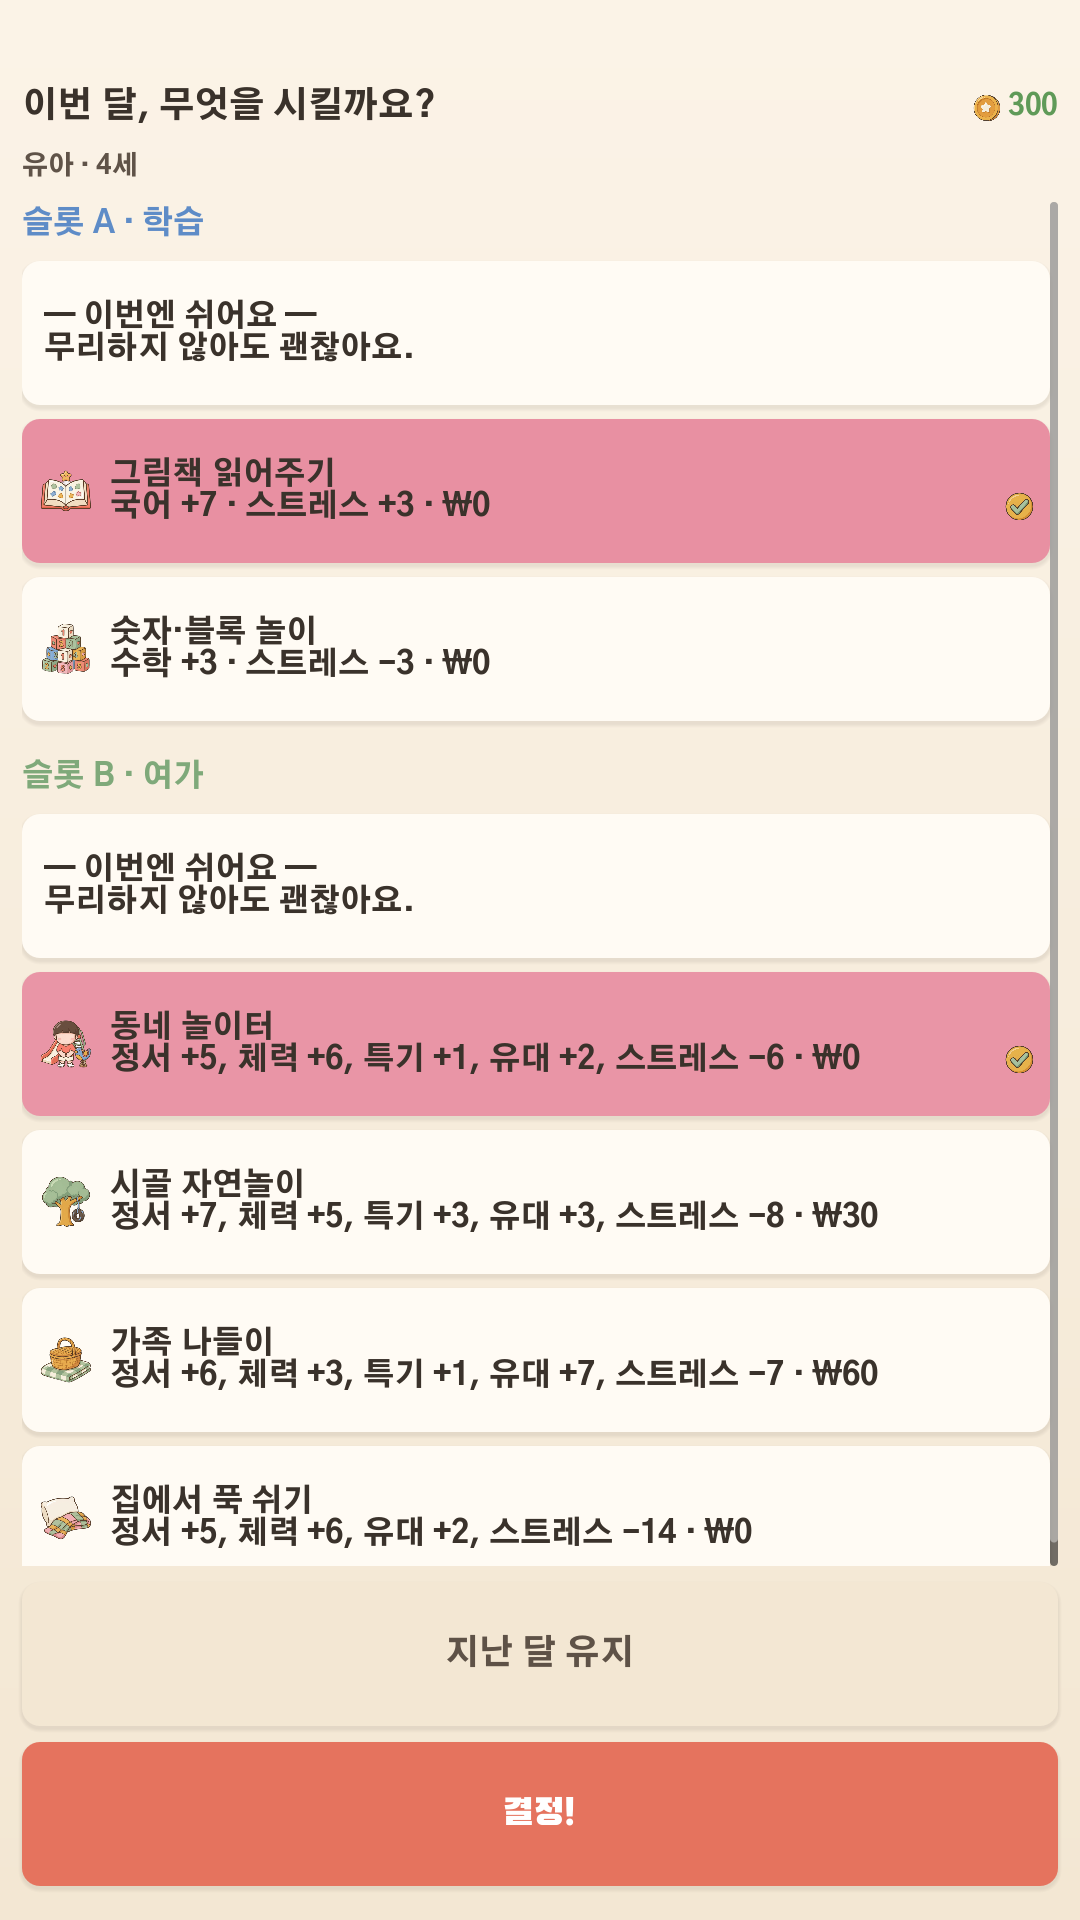
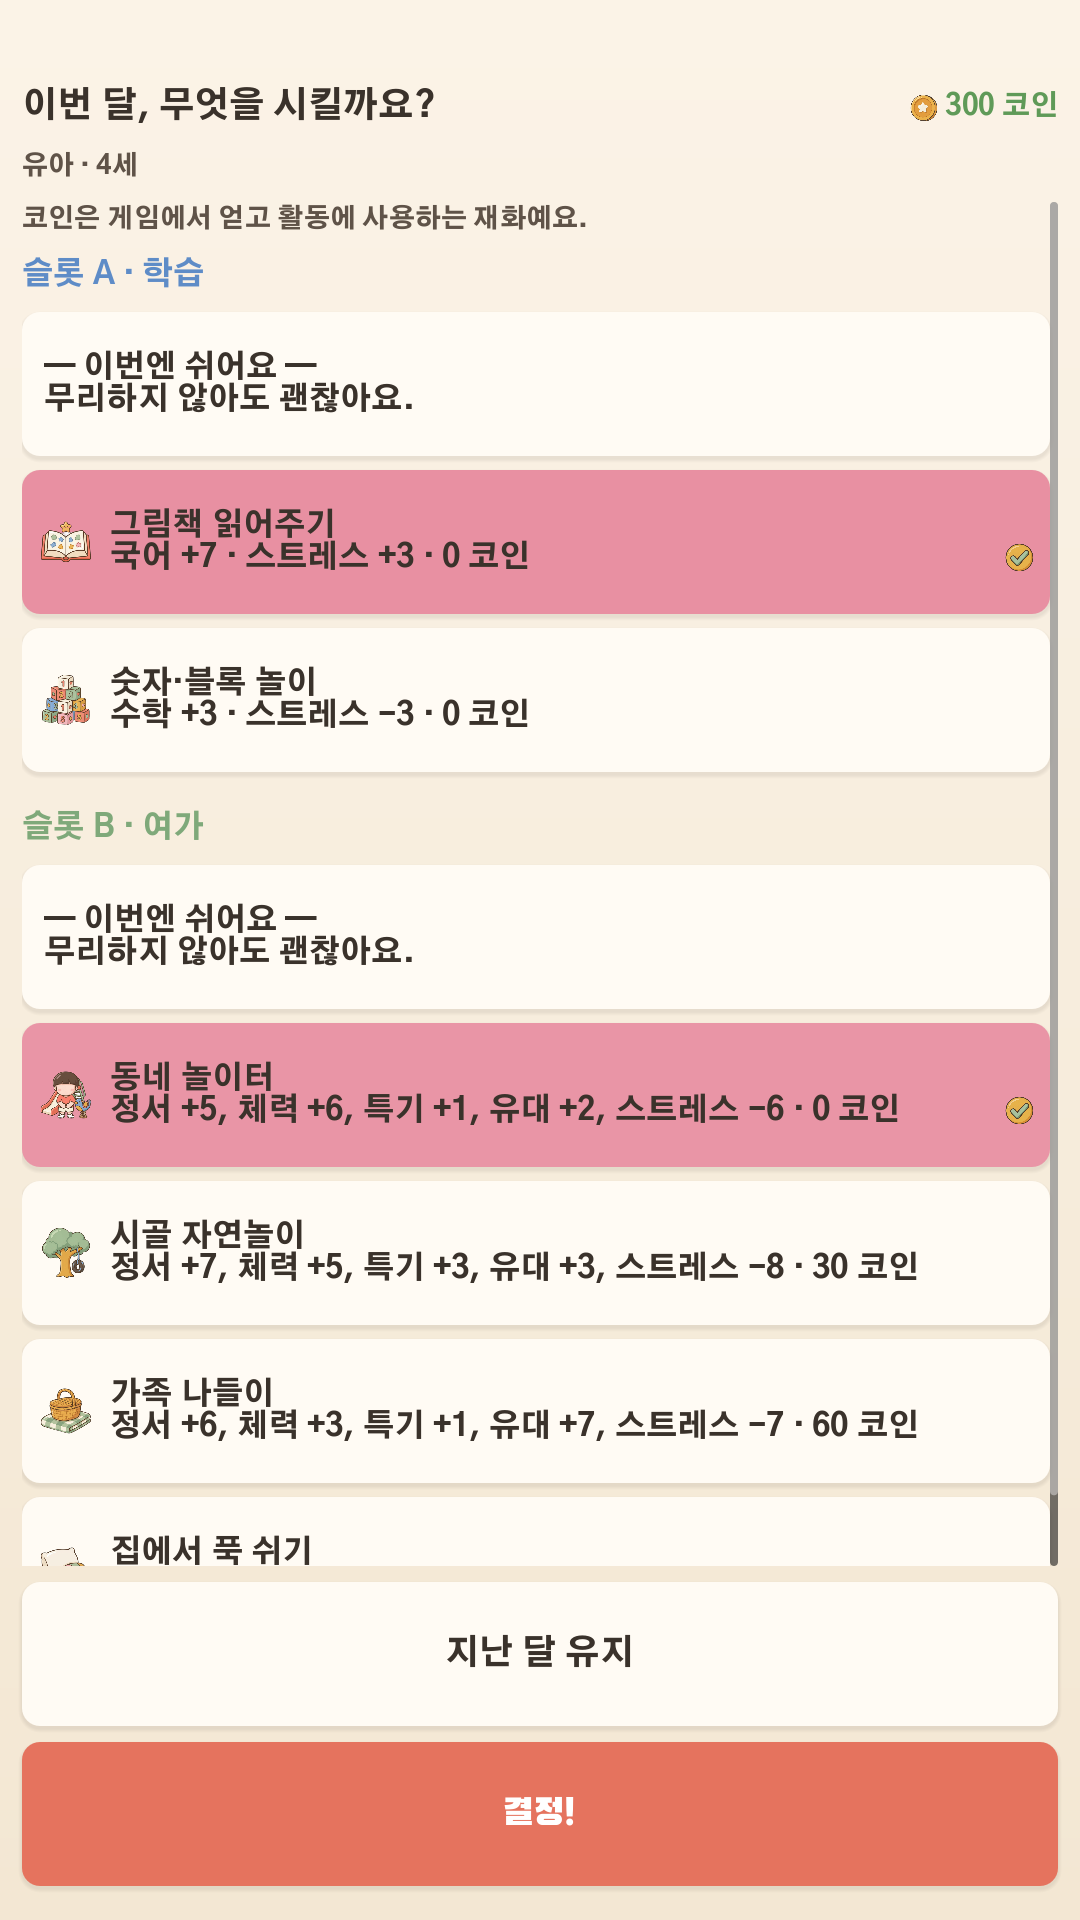
게임 재화 표시를 코인으로 통일 (#70)
* 코인 표기 통일과 Google Play 1.0.1 승인 범위 기록

* 게임 재화 표시를 코인으로 통일하고 첫 달 안내 추가

* 렌더링 검수 캡처의 프레임 대기 중단 방지

* E2E 탭 전에 포인터 위치를 화면 좌표로 갱신

Changed region(s): [[0.0, 0.0938, 0.9778, 0.9062], [0.825, 0.0312, 0.9778, 0.0625]]

diff --git a/docs/design/2026-10-24-coin-labels/design.md b/docs/design/2026-10-24-coin-labels/design.md
@@ -1,0 +1,33 @@
+# 코인 표기 통일과 Google Play 1.0.1 업데이트
+
+2026-10-24 사용자 요청에 포함된 계획을 실행한다. 기준은 `v1.0.0`이며 제품명, 재화 수치와 계산, 젬, 저장 키, 공개 API와 데이터 형식은 유지한다.
+
+| 화면 | 변경 후 표시 |
+|---|---|
+| 홈과 활동 잔액 | 동전 아이콘과 `250 코인` |
+| 활동 비용 | `30 코인` |
+| 활동 수입 | `코인 +50` |
+| 정산 | `코인` |
+| 잔액 부족 | `코인이 부족해요 — 활동 조합을 줄여 주세요` |
+
+각 회차 `turn_index == 0`인 활동 화면에 “코인은 게임에서 얻고 활동에 사용하는 재화예요.”를 표시한다. 별도 저장 항목이나 팝업은 만들지 않는다. 기존 숫자 애니메이션의 `fmt` 인자로 단위를 유지한다. 기존 화면과 아트 방향을 재사용하는 문구 수정이며 새 화면이나 UI 개편은 아니다.
+
+홈에서 활동을 열고, 활동을 선택하고, 정산을 확인한 뒤 홈으로 돌아오는 흐름은 유지한다. 화면 계층만 수정하며 엔진 독립 도메인과 어댑터는 바꾸지 않는다. 기존 예산 제한과 오류 처리도 유지한다. 설계 문서의 표시 기준과 Play 홈, 활동 스크린샷을 실제 렌더로 갱신한다.
+
+## 인수조건과 검수
+
+- AC-1: 사용자에게 보이는 원화 기호와 재화 이름 재력이 남지 않으며 비용, 수입, 정산, 잔액과 부족 안내가 위 표와 일치한다.
+- AC-2: 첫 달 안내가 각 회차 첫 달에만 나타나며 다음 달과 재실행에서도 기존 턴 정보와 일치한다.
+- AC-3: 잔액 0, 250, 9999999에서 기본 화면과 작은 화면, 큰 글자 설정을 검사한다. 잔액 애니메이션 중에도 코인 단위가 유지되고 글자나 버튼이 겹치거나 잘리지 않는다.
+- AC-4: 실제 좌표 입력으로 활동 선택, 부족 조합 제한, 정산, 홈 복귀와 저장 복원을 확인한다. 재화 수치와 저장 키는 바뀌지 않는다.
+- AC-5: 컴파일, `npm run test:core`, `npm run test:e2e`, 필수 CI와 중앙 출시 검증을 통과한다.
+
+테스트 계획은 같은 폴더의 `test-plan.json`이다. 기존 입력 E2E에 표시와 첫 달 노출 assertion을 먼저 더해 요구사항 때문에 실패하는지 확인한다. 시각적 줄바꿈은 실제 렌더링 캡처와 사각형 검사를 병행한다. 실기기는 사용하지 않는다.
+
+## 반영과 출시
+
+브랜치와 Ready PR로 반영한다. 로컬 코드 리뷰와 CI 후 병합하고 병합 SHA에서 실행 근거를 다시 고정한다. 기존 절차로 `v1.0.1`과 원장의 Android 번호를 발급하고 내부 테스트에 올린 뒤 기존 공개 국가의 production 100%로 승격, 심사 제출, 승인과 실제 공개 상태를 확인한다. 국가, 가격, 정책 답변과 자격증명을 바꾸지 않는다. 문제 발견 시 공개 전 승격을 멈춘다. 원본 검수 자료는 NAS 복사와 직접 해시 대조 후 로컬에서 정리한다.
+
+## 승인 근거
+
+사용자는 이 계획 전문을 제공하고 “Implement the plan in a fresh context. Treat the plan as the source of user intent ... carry the work through implementation and verification.”라고 지시했다. 이는 위 변경, L1 개발 환경 검수, PR 병합, Google Play v1.0.1 기존 공개 국가 100% 업데이트와 공개 확인까지의 실행 승인이다. 기기 사용은 범위에 없다.

diff --git a/docs/game-design/05-economy-content-liveops.md b/docs/game-design/05-economy-content-liveops.md
@@ -13,7 +13,7 @@
 
 | 재화 | Source | Sink |
 | --- | --- | --- |
-| 가계 재력(소프트) | 기본 소득 +50/턴, 아르바이트(고등), 이벤트, 일일 보너스, 보상형 광고, 엔딩 보상 | 학원·과외·특강, 체험·여가, 꾸미기 |
+| 코인(소프트, 내부 키 `money`) | 기본 소득 +50/턴, 아르바이트(고등), 이벤트, 일일 보너스, 보상형 광고, 엔딩 보상 | 학원·과외·특강, 체험·여가, 꾸미기 |
 | 프리미엄 통화 💎(하드) | IAP, 업적, 시즌패스 보상 | 코스메틱 가챠, 시간 단축, 리롤, 프리미엄 활동 |
 | 시간(턴) | 학기당 4턴 × 슬롯 2 | 활동 배분(핵심 희소성) |
 | 가챠 마일리지 | 중복 획득 전환 | 교환소 확정 교환 |
@@ -102,3 +102,5 @@
 - Remote Config 키(대표): 성장 공식 계수 테이블, 활동 비용·효과, 스트레스 임계, 전환기 확률 곡선, 광고 캡, 가격 실험 플래그, 시즌 일정.
 - 실험 규칙: fallback 값 필수, exposure 이벤트 기록, primary metric과 guardrail metric(크래시·D1·불만 지표) 지정, 중단 조건과 rollback 계획 포함.
 - 확률·가격처럼 고지 의무가 있는 값은 실험 대상에서 제외하거나, 변경 시 반드시 공지 절차를 거친다.
+
+표시 규칙: 게임 내 소프트 재화는 코인으로 통일하며 잔액과 비용은 `250 코인`, 수입은 `코인 +50`으로 표시한다. 기존 재력이라는 설계 용어와 내부 `money` 키, 수치와 획득 및 소비 규칙은 유지한다. [화면 표시 계약](03-ui-ux-spec.md#재화-표시)을 따른다.

diff --git a/docs/game-design/03-ui-ux-spec.md b/docs/game-design/03-ui-ux-spec.md
@@ -34,6 +34,12 @@ flowchart TD
 - 터치 영역: Android 48dp 이상, Apple 게임 컨트롤 지침 최신본 준수. 하단 엄지 도달권에 주 행동 배치.
 - 세로 고정. 과한 게이미피케이션·자극색·카운트다운 도박 연출 금지(힐링 하드게이트).
 
+## 재화 표시
+
+2026-10-24 승인 변경: 게임 재화 `money`의 사용자 표시명은 코인이다. 잔액과 비용은 `250 코인`, 수입은 `코인 +50`, 정산 항목은 `코인`, 부족 안내는 `코인이 부족해요`로 쓴다. 원화 기호를 사용하지 않는다. 동전 아이콘과 숫자 애니메이션에도 코인 단위를 유지한다.
+
+각 회차 첫 달 활동 화면에 “코인은 게임에서 얻고 활동에 사용하는 재화예요.”를 표시한다. 기존 `turn_index`로 판단하며 추가 저장 항목과 팝업은 없다. 재화 수치, 계산 규칙, 젬과 저장 키는 유지한다.
+
 ## 화면 계약
 
 원칙: 메인 플레이 화면은 자녀와 우리 집이 주인공. 숫자 카드·관리 패널이 지배하는 대시보드 구성 금지. 스탯은 얇은 상단 바.

diff --git a/docs/design/README.md b/docs/design/README.md
@@ -1,3 +1,5 @@
 # 설계 목록
 
 - 2026-10-21 [Google Play 첫 출시](2026-10-21-google-play-launch/design.md), 사용자 제공 계획 구현, L3, 한국 전체 공개.
+
+- 2026-10-24 [코인 표기 통일과 Google Play 1.0.1 업데이트](2026-10-24-coin-labels/design.md): 사용자 제공 계획 실행, L1 개발 환경, Google Play 기존 공개 국가 100% 업데이트.
